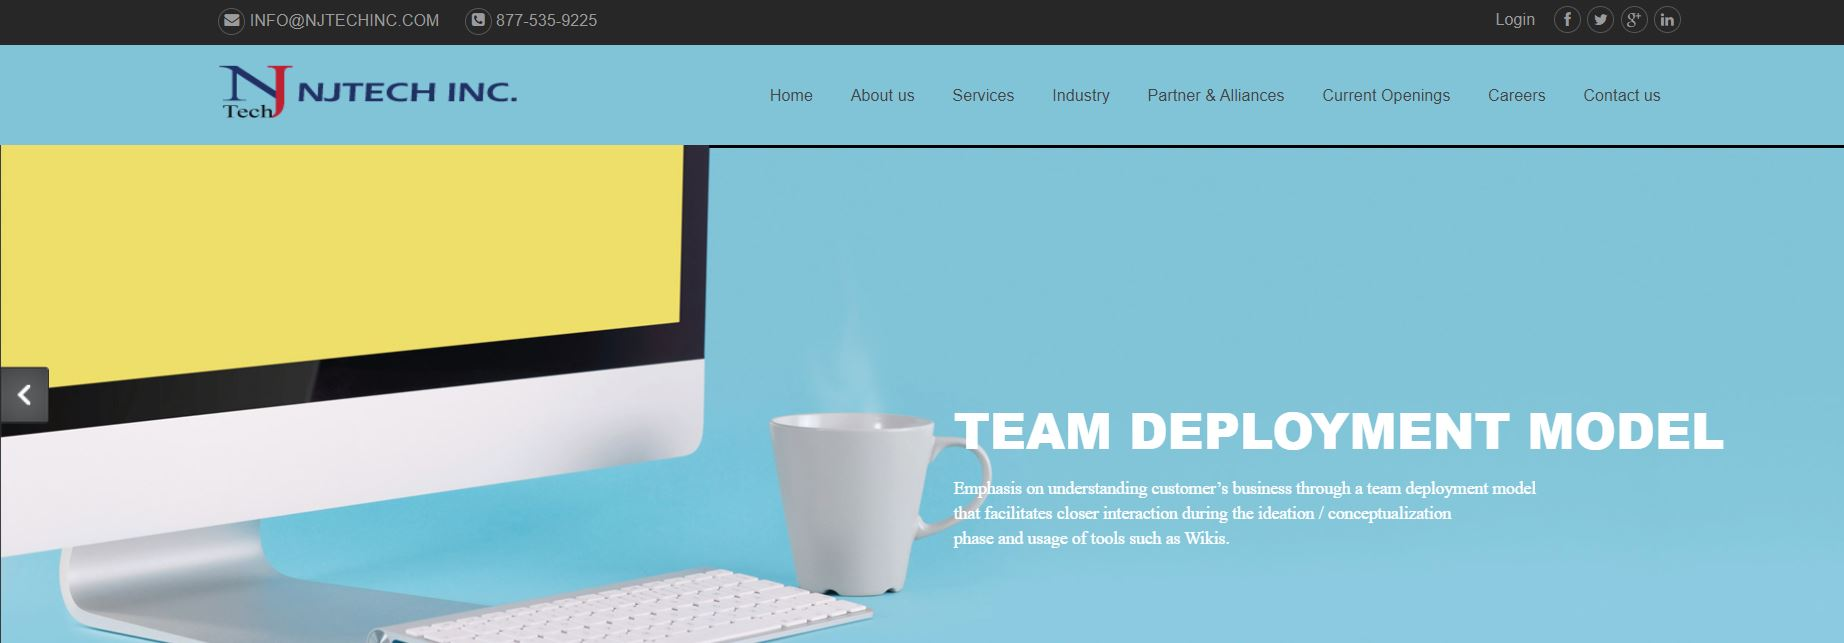
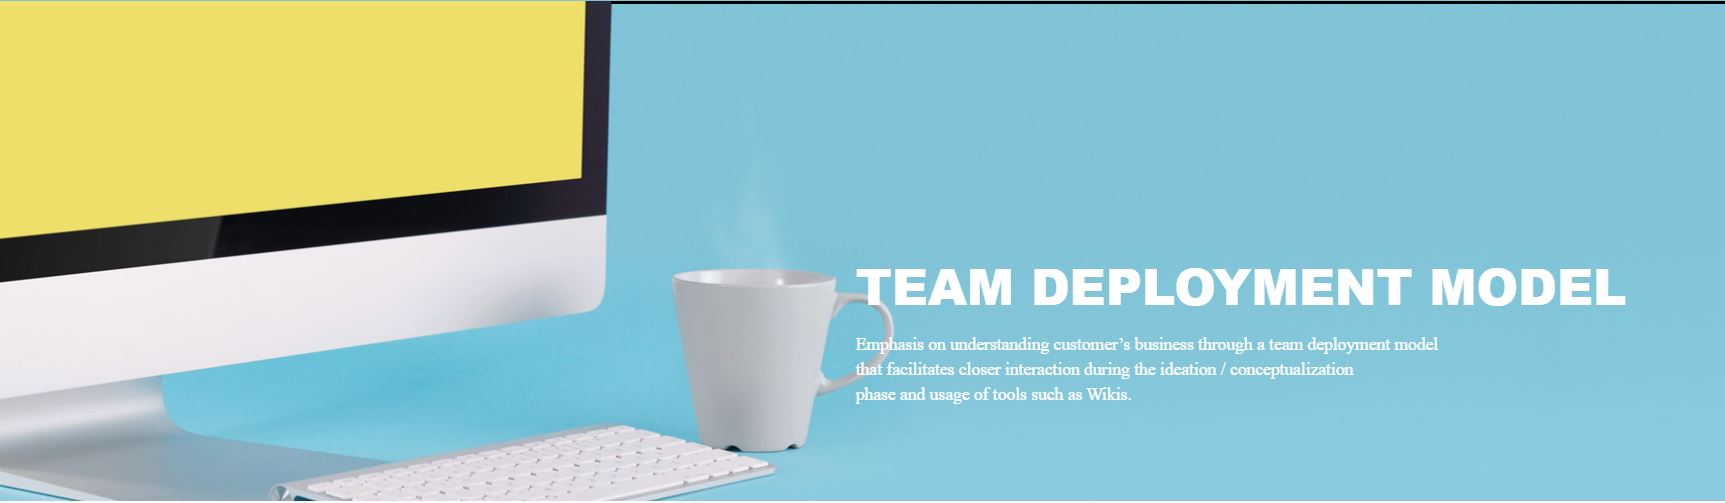
latest changes in code executed

diff --git a/src/App.js b/src/App.js
@@ -1,6 +1,6 @@
 import Header from "./components/Header";
 import Footer from "./components/Footer";
-import { Container } from "react-bootstrap";
+import { Container,Row,Col,Button } from "react-bootstrap";
 import HomeScreen from "./Screens/HomeScreen";
 function App() {
   return (
@@ -13,6 +13,49 @@ function App() {
       </main>
     </Container>
 
+
+    <div>
+      <h2><b><center>SERVICES</center></b></h2>
+      <Row>
+        <Col> 
+        <h3><a href="#">APPLICATION DEVELOPMENT</a></h3> 
+        <p className='p-style'>
+        NJTECH provides Application Development and Maintenance Outsourcing services which allows for reduction 
+        of costs as well as business growth and improvement.
+
+        </p>
+        <Button variant='warning'>Read More</Button>
+
+        </Col>
+
+        <Col >  
+        <h3><a href="#">BUSINESS PROCESS OUTSOURCING(BPO)</a></h3> 
+        <p className='p-style'>
+        BPO can be defined as the transfer of 
+        an organization's entire non-core but critical business process/function to an external business partner who uses an IT-based.
+
+        </p>
+        <Button variant='warning'>Read More</Button>
+
+        </Col>
+
+        <Col>  
+        <h3><a href="#">PROFESSIONAL IT STAFFING</a></h3> 
+        <p className='p-style'>
+        NJTECH has a strong team with a lot of 
+        technology consulting experience and a proven track record. 
+
+        </p>
+        <Button variant='warning'>Read More</Button>
+
+        </Col>
+      </Row>
+
+
+
+
+
+    </div>
 
 
     <Footer/>

diff --git a/src/Screens/HomeScreen.js b/src/Screens/HomeScreen.js
@@ -21,7 +21,7 @@ const HomeScreen  = () => {
 <div>
 <Carousel>
          <Carousel.Item>
-            <img
+            <img height="550px"
               className="d-block w-100"
               src="images/img1.jpg"
               alt="First slide"
@@ -29,7 +29,7 @@ const HomeScreen  = () => {
    
            </Carousel.Item>
            <Carousel.Item>
-           <img
+           <img height="550px"
               className="d-block w-100"
               src="images/img2.jpg"
               alt="Second slide"
@@ -39,7 +39,7 @@ const HomeScreen  = () => {
 
 
             <Carousel.Item>
-            <img
+            <img height="550px"
             className="d-block w-100"
             src="images/img3.jpg"
             alt="Third slide"
@@ -53,8 +53,9 @@ const HomeScreen  = () => {
 
 
 
-            
+
 </Carousel>
+<br/>
 </div>
 
 

diff --git a/src/index.css b/src/index.css
@@ -21,6 +21,10 @@
 font-family: 'Times New Roman', Times, serif;
 }
 
+.p-style{
+  text-align: justify;
+}
+
 
 main{
   min-height: 80vh;
@@ -29,6 +33,7 @@ main{
 footer{
   background-color: rgb(223,199,168);
   padding: 10px;
+  margin-top: 6 rem;
 }
 
 marquee{
